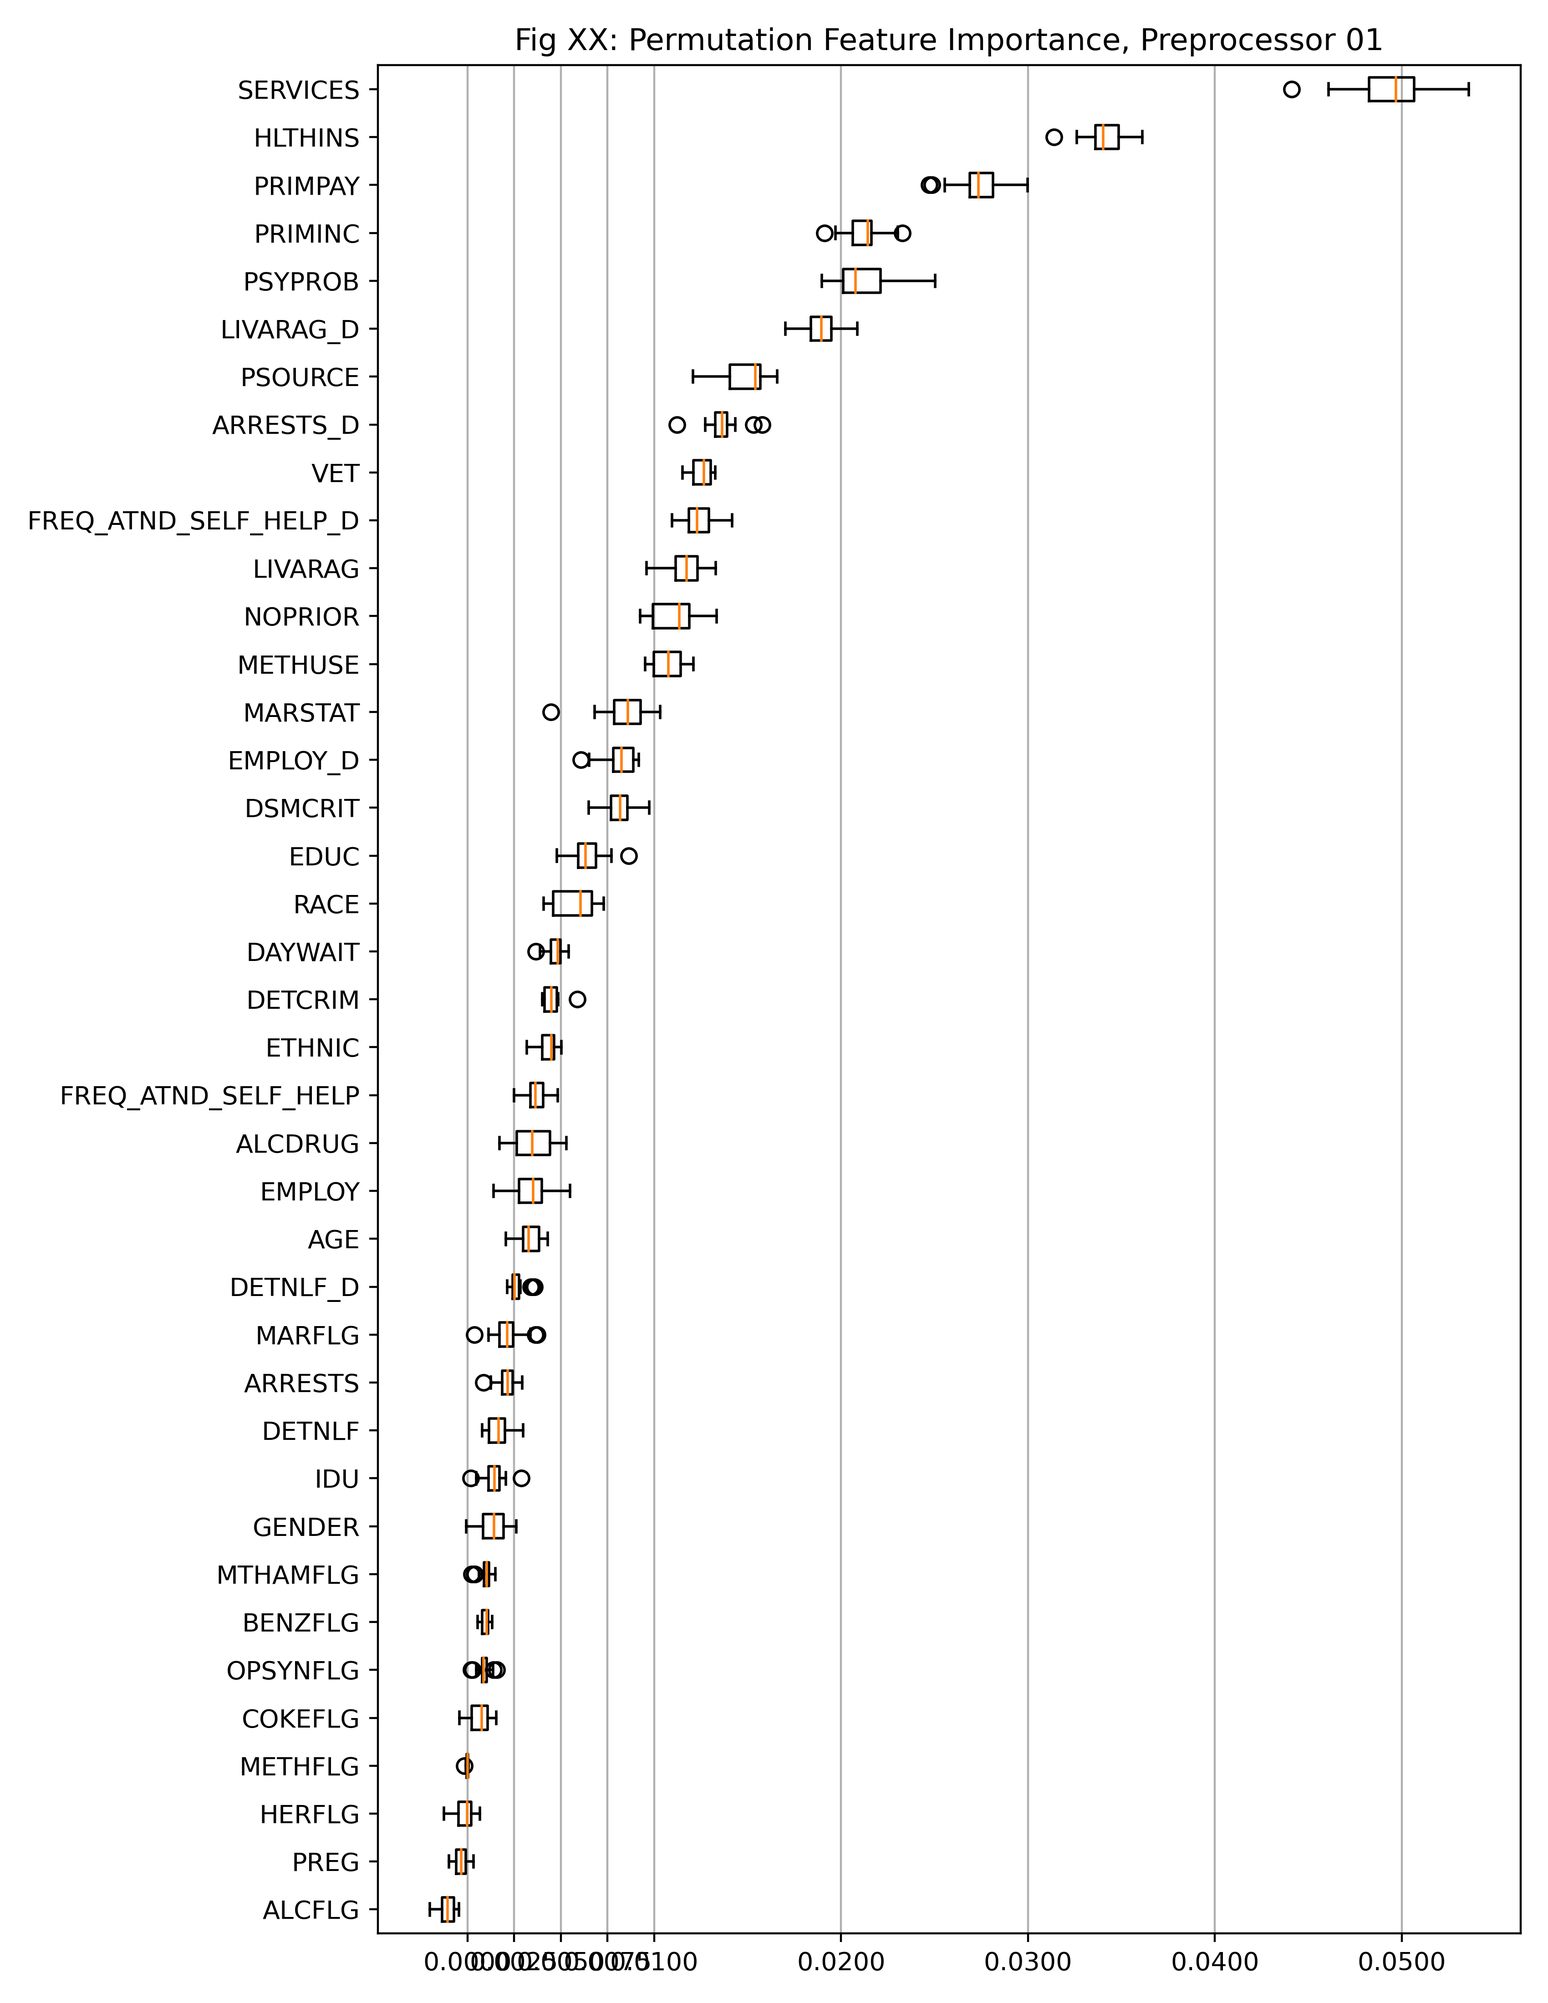
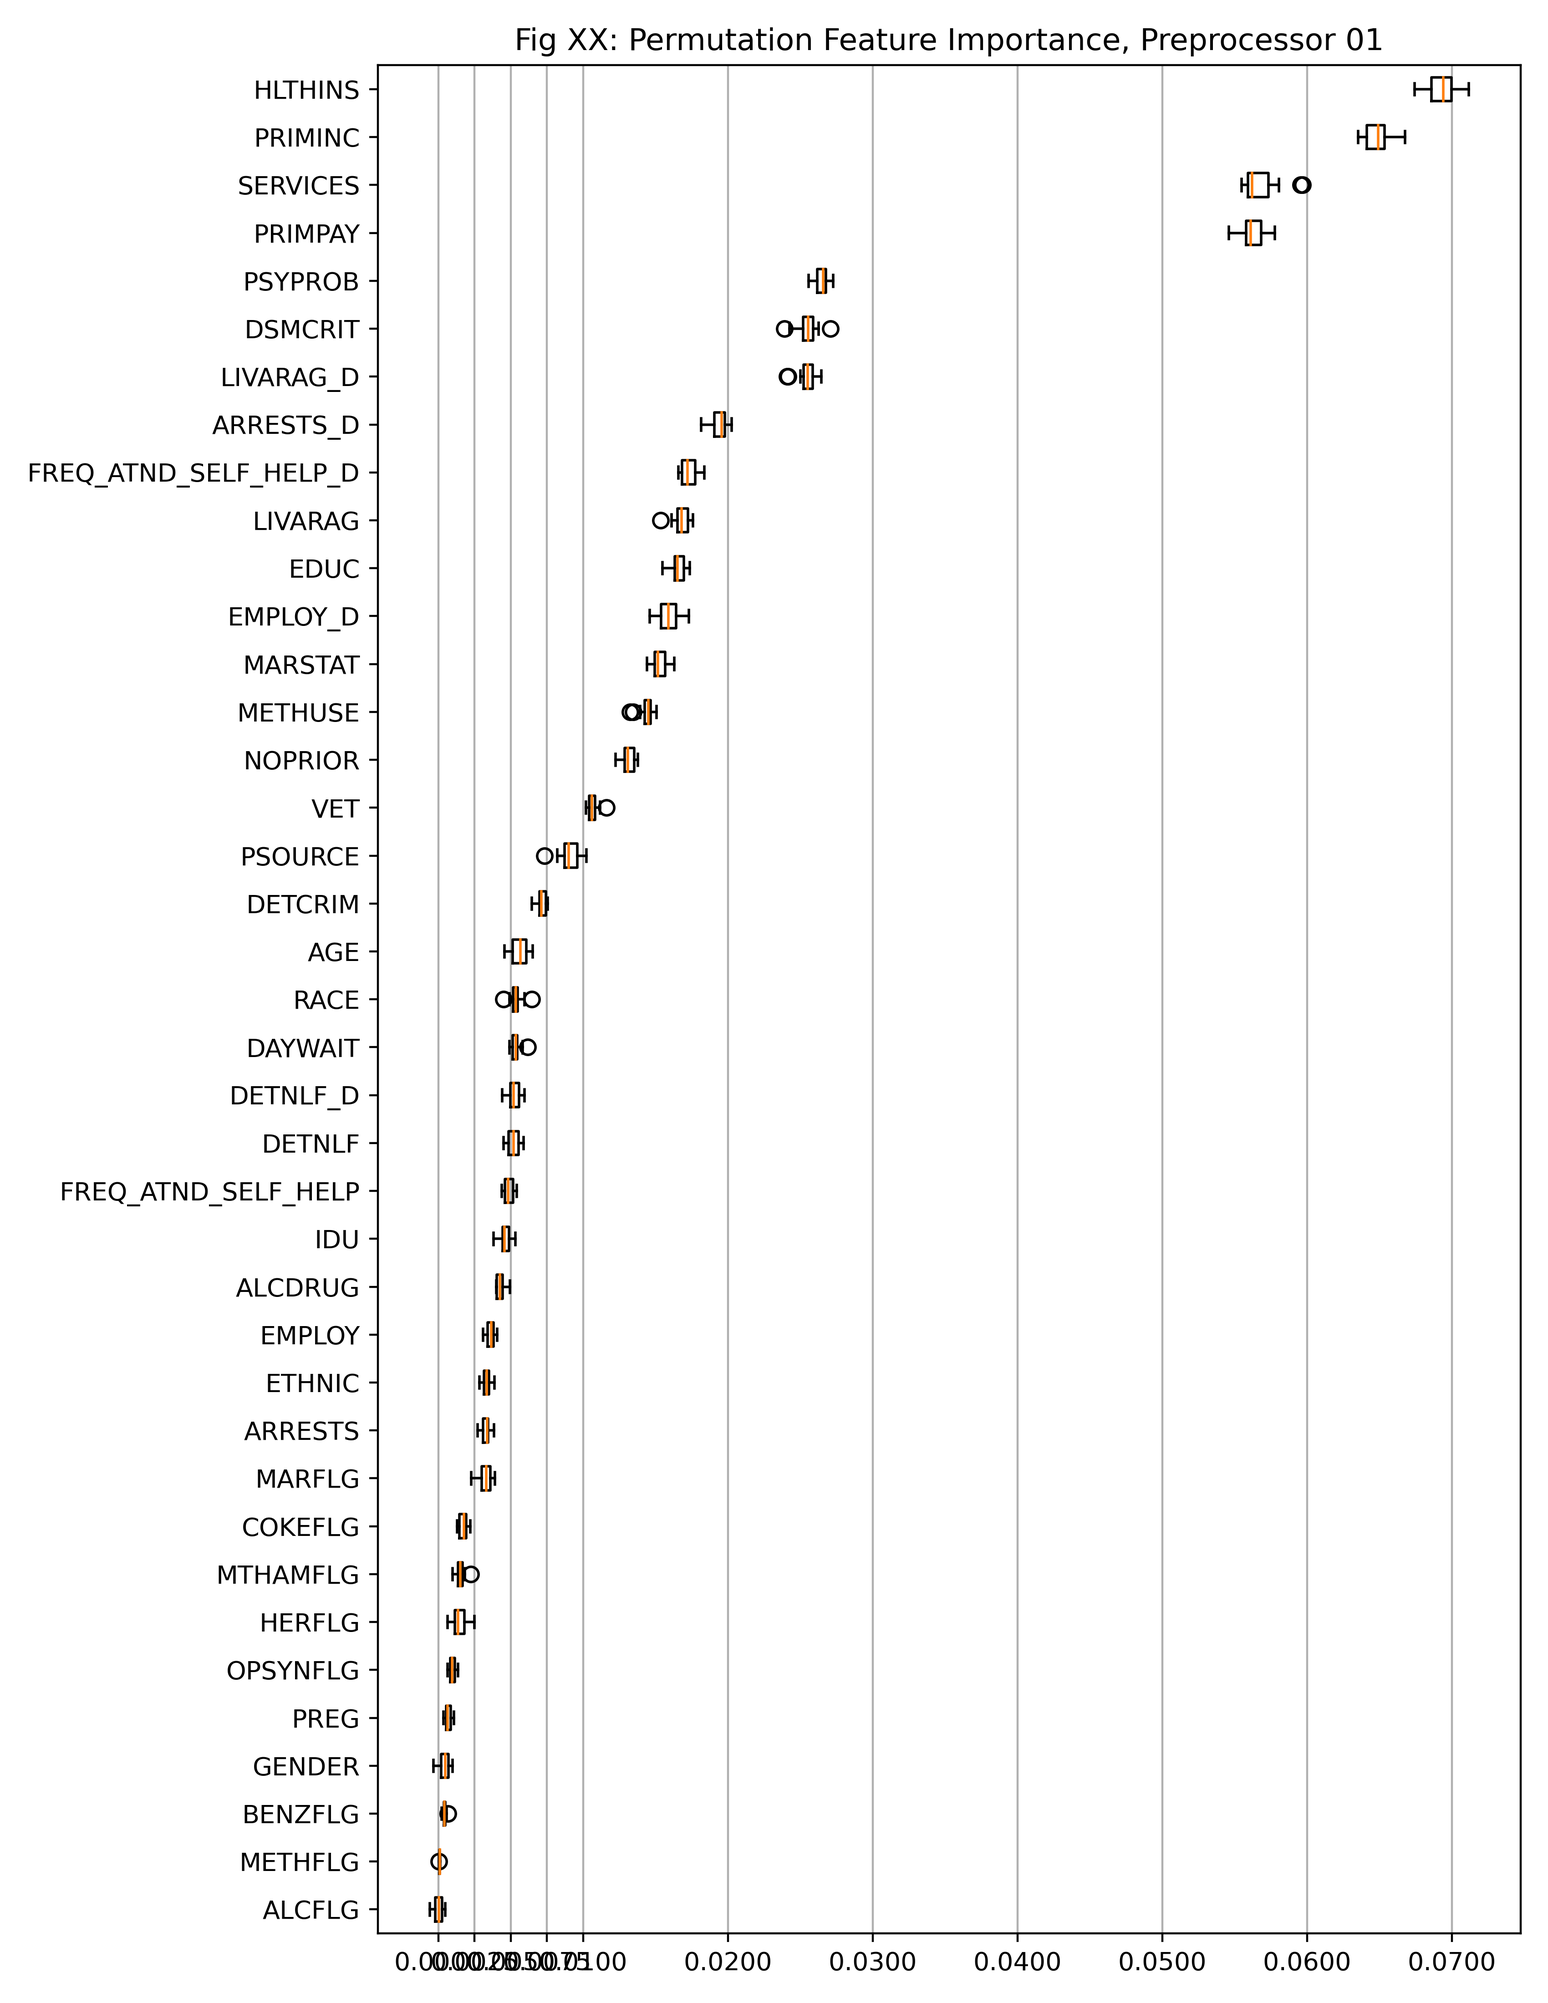
Starting final classifier training.

diff --git a/_final_code/permutation_feature_importance.py b/_final_code/permutation_feature_importance.py
@@ -34,8 +34,35 @@ def main():
 
     ############################################################################
 
+    # destination = os.path.join(
+    #     classifier_directory, "rf_prep_01"
+    # )
+    # with open(destination, 'rb') as file:
+    #     preprocessing, rf_clf, feature_labels, X_train, X_test, y_train, y_test \
+    #         = pickle.load(file)
+    #
+    # results = permutation_feature_importance(
+    #     preprocessing, rf_clf, roc_auc_score, feature_labels,
+    #     X_test, y_test, 20,
+    #     file_name='Permutation Feature Importance, Preprocessor 01.pickle'
+    # )
+
+    # destination = os.path.join(
+    #     performance_data_directory, "Permutation Feature Importance, "
+    #                                 "Preprocessor 01.pickle"
+    # )
+    # with open(destination, 'rb') as file:
+    #     results = pickle.load(file)
+    #
+    # fig_pf_importance(results,
+    #                   'Fig XX: Permutation Feature Importance, Preprocessor '
+    #                   '01',
+    #                   'Permutation Feature Importance, Preprocessor 01')
+
+    ############################################################################
+
     destination = os.path.join(
-        classifier_directory, "rf_prep_01"
+        classifier_directory, "rf_prep_01_opt"
     )
     with open(destination, 'rb') as file:
         preprocessing, rf_clf, feature_labels, X_train, X_test, y_train, y_test \
@@ -44,103 +71,76 @@ def main():
     results = permutation_feature_importance(
         preprocessing, rf_clf, roc_auc_score, feature_labels,
         X_test, y_test, 20,
-        file_name='Permutation Feature Importance, Preprocessor 01.pickle'
+        file_name='Permutation Feature Importance, Preprocessor 01 '
+                  'Optimized.pickle'
     )
 
     destination = os.path.join(
         performance_data_directory, "Permutation Feature Importance, "
-                                    "Preprocessor 01.pickle"
+                                    "Preprocessor 01 Optimized.pickle"
     )
     with open(destination, 'rb') as file:
         results = pickle.load(file)
 
     fig_pf_importance(results,
                       'Fig XX: Permutation Feature Importance, Preprocessor '
-                      '01',
-                      'Permutation Feature Importance, Preprocessor 01')
+                      '01 Optimized',
+                      'Permutation Feature Importance, Preprocessor 01 '
+                      'Optimized')
 
     ############################################################################
 
-    # destination = os.path.join(
-    #     classifier_directory, "rf_prep_01_opt"
-    # )
-    # with open(destination, 'rb') as file:
-    #     preprocessing, rf_clf, feature_labels, X_train, X_test, y_train, y_test \
-    #         = pickle.load(file)
-    #
-    # results = permutation_feature_importance(
-    #     preprocessing, rf_clf, roc_auc_score, feature_labels,
-    #     X_test, y_test, 20,
-    #     file_name='Permutation Feature Importance, Preprocessor 01 '
-    #               'Optimized.pickle'
-    # )
-    #
-    # destination = os.path.join(
-    #     performance_data_directory, "Permutation Feature Importance, "
-    #                                 "Preprocessor 01 Optimized.pickle"
-    # )
-    # with open(destination, 'rb') as file:
-    #     results = pickle.load(file)
-    #
-    # fig_pf_importance(results,
-    #                   'Fig XX: Permutation Feature Importance, Preprocessor '
-    #                   '01 Optimized',
-    #                   'Permutation Feature Importance, Preprocessor 01 '
-    #                   'Optimized')
+    destination = os.path.join(
+        classifier_directory, "rf_prep_02a"
+    )
+    with open(destination, 'rb') as file:
+        preprocessing, rf_clf, feature_labels, X_train, X_test, y_train, y_test \
+            = pickle.load(file)
+
+    results = permutation_feature_importance(
+        preprocessing, rf_clf, roc_auc_score, feature_labels,
+        X_test, y_test, 20,
+        file_name='Permutation Feature Importance, Preprocessor 02a.pickle'
+    )
+
+    destination = os.path.join(
+        performance_data_directory, "Permutation Feature Importance, "
+                                    "Preprocessor 02a.pickle"
+    )
+    with open(destination, 'rb') as file:
+        results = pickle.load(file)
+
+    fig_pf_importance(results,
+                      'Fig XX: Permutation Feature Importance, Preprocessor '
+                      '02a',
+                      'Permutation Feature Importance, Preprocessor 02a')
 
     ############################################################################
 
-    # destination = os.path.join(
-    #     classifier_directory, "rf_prep_02a"
-    # )
-    # with open(destination, 'rb') as file:
-    #     preprocessing, rf_clf, feature_labels, X_train, X_test, y_train, y_test \
-    #         = pickle.load(file)
-    #
-    # results = permutation_feature_importance(
-    #     preprocessing, rf_clf, roc_auc_score, feature_labels,
-    #     X_test, y_test, 20,
-    #     file_name='Permutation Feature Importance, Preprocessor 02a.pickle'
-    # )
-    #
-    # destination = os.path.join(
-    #     performance_data_directory, "Permutation Feature Importance, "
-    #                                 "Preprocessor 02a.pickle"
-    # )
-    # with open(destination, 'rb') as file:
-    #     results = pickle.load(file)
-    #
-    # fig_pf_importance(results,
-    #                   'Fig XX: Permutation Feature Importance, Preprocessor '
-    #                   '02a',
-    #                   'Permutation Feature Importance, Preprocessor 02a')
+    destination = os.path.join(
+        classifier_directory, "rf_prep_02b"
+    )
+    with open(destination, 'rb') as file:
+        preprocessing, rf_clf, feature_labels, X_train, X_test, y_train, y_test \
+            = pickle.load(file)
 
-    ############################################################################
+    results = permutation_feature_importance(
+        preprocessing, rf_clf, roc_auc_score, feature_labels,
+        X_test, y_test, 20,
+        file_name='Permutation Feature Importance, Preprocessor 02b.pickle'
+    )
 
-    # destination = os.path.join(
-    #     classifier_directory, "rf_prep_02b"
-    # )
-    # with open(destination, 'rb') as file:
-    #     preprocessing, rf_clf, feature_labels, X_train, X_test, y_train, y_test \
-    #         = pickle.load(file)
-    #
-    # results = permutation_feature_importance(
-    #     preprocessing, rf_clf, roc_auc_score, feature_labels,
-    #     X_test, y_test, 20,
-    #     file_name='Permutation Feature Importance, Preprocessor 02b.pickle'
-    # )
-    #
-    # destination = os.path.join(
-    #     performance_data_directory, "Permutation Feature Importance, "
-    #                                 "Preprocessor 02b.pickle"
-    # )
-    # with open(destination, 'rb') as file:
-    #     results = pickle.load(file)
-    #
-    # fig_pf_importance(results,
-    #                   'Fig XX: Permutation Feature Importance, Preprocessor '
-    #                   '02b',
-    #                   'Permutation Feature Importance, Preprocessor 02b')
+    destination = os.path.join(
+        performance_data_directory, "Permutation Feature Importance, "
+                                    "Preprocessor 02b.pickle"
+    )
+    with open(destination, 'rb') as file:
+        results = pickle.load(file)
+
+    fig_pf_importance(results,
+                      'Fig XX: Permutation Feature Importance, Preprocessor '
+                      '02b',
+                      'Permutation Feature Importance, Preprocessor 02b')
 
     ############################################################################
 
@@ -167,7 +167,7 @@ def fig_pf_importance(results: dict[str, list[float]],
     ax.grid(axis='x')
     ax.set_xticks(
         [0.000, 0.0025, 0.005, 0.0075, 0.010, 0.020, 0.030,
-         0.040, 0.050]
+         0.040, 0.050, 0.060, 0.070]
     )
     fig.tight_layout()
     plt.show()

diff --git a/_final_code/random_forest.py b/_final_code/random_forest.py
@@ -26,29 +26,63 @@ def main():
     start_time = pd.Timestamp.now()
     print(f"Started at {start_time}")
 
-    preprocessor, feature_labels = preprocessors.create_preprocessor_01()
+    ############################################################################
+
+    # target_file = os.path.join(data_directory, 'tedsd_puf_2019.csv')
+    # raw_data = pd.read_csv(target_file)
+    #
+    # targets = raw_data.pop('REASON')
+    # targets = np.array((targets == 3).astype(int))
+    # features = raw_data
+    #
+    # X_train, X_test, y_train, y_test = \
+    #     train_test_split(features, targets,
+    #                      test_size=0.1, stratify=targets)
+    #
+    # save_data = (X_train, X_test, y_train, y_test)
+    # destination = os.path.join(
+    #     classifier_directory, 'Split Data, Round 1.pickle'
+    # )
+    # with open(destination, 'wb') as file:
+    #     pickle.dump(save_data, file)
+
+    ############################################################################
+
+    destination = os.path.join(
+        classifier_directory, "Split Data, Round 1.pickle"
+    )
+    with open(destination, 'rb') as file:
+        X_train, X_test, y_train, y_test = pickle.load(file)
+
+    ############################################################################
+
+    # preprocessor, feature_labels = preprocessors.create_preprocessor_01()
+    # downsampled_random_forest(preprocessor,
+    #                           feature_labels,
+    #                           'rf_prep_01',
+    #                           'Random Forest, Preprocessor 01',
+    #                           X_train, X_test, y_train, y_test)
+
+    preprocessor, feature_labels = preprocessors.create_preprocessor_01_opt()
     downsampled_random_forest(preprocessor,
                               feature_labels,
-                              'rf_prep_01',
-                              'Random Forest, Preprocessor 01')
+                              'rf_prep_01_opt',
+                              'Random Forest, Preprocessor 01 Optimized',
+                              X_train, X_test, y_train, y_test)
 
-    # preprocessor, feature_labels = preprocessors.create_preprocessor_01_opt()
-    # downsampled_random_forest(preprocessor,
-    #                           feature_labels,
-    #                           'rf_prep_01_opt',
-    #                           'Random Forest, Preprocessor 01 Optimized')
-    #
-    # preprocessor, feature_labels = preprocessors.create_preprocessor_02a()
-    # downsampled_random_forest(preprocessor,
-    #                           feature_labels,
-    #                           'rf_prep_02a',
-    #                           'Random Forest, Preprocessor 02a')
-    #
-    # preprocessor, feature_labels = preprocessors.create_preprocessor_02b()
-    # downsampled_random_forest(preprocessor,
-    #                           feature_labels,
-    #                           'rf_prep_02b',
-    #                           'Random Forest, Preprocessor 02b')
+    preprocessor, feature_labels = preprocessors.create_preprocessor_02a()
+    downsampled_random_forest(preprocessor,
+                              feature_labels,
+                              'rf_prep_02a',
+                              'Random Forest, Preprocessor 02a',
+                              X_train, X_test, y_train, y_test)
+
+    preprocessor, feature_labels = preprocessors.create_preprocessor_02b()
+    downsampled_random_forest(preprocessor,
+                              feature_labels,
+                              'rf_prep_02b',
+                              'Random Forest, Preprocessor 02b',
+                              X_train, X_test, y_train, y_test)
 
     end_time = pd.Timestamp.now()
     print(f"Finished at {end_time}")
@@ -59,29 +93,26 @@ def main():
 def downsampled_random_forest(preprocessor: ColumnTransformer,
                               feature_labels: list[str],
                               filename: str,
-                              filename_pretty: str):
+                              filename_pretty: str,
+                              X_train: pd.DataFrame,
+                              X_test: pd.DataFrame,
+                              y_train: pd.DataFrame,
+                              y_test: pd.DataFrame):
     """
     Compensates for dramatic under-representation of desired target in data
     by breaking training data into two groups, based on target, then batch
     training on batches with equal representation of targets.
+    :param y_test:
+    :param y_train:
+    :param X_test:
+    :param X_train:
     :param preprocessor:
     :param features:
     :param filename:
     :param filename_pretty:
     :return:
     """
-    print("Setting up data...")
 
-    target_file = os.path.join(data_directory, 'tedsd_puf_2019.csv')
-    raw_data = pd.read_csv(target_file)
-
-    targets = raw_data.pop('REASON')
-    targets = np.array((targets == 3).astype(int))
-    features = raw_data
-
-    X_train, X_test, y_train, y_test = \
-        train_test_split(features, targets,
-                         test_size=50_000, stratify=targets)
     t_X_train = preprocessor.fit_transform(X_train)
     t_X_test = preprocessor.transform(X_test)
 

diff --git a/_final_code/preprocessors.py b/_final_code/preprocessors.py
@@ -86,7 +86,7 @@ def create_preprocessor_01_opt():
 
     # Get categorical data that is binary
     binary_category_cols = [
-        'COKEFLG', 'MARFLG',
+        'COKEFLG', 'MARFLG', 'HERFLG',
         'OPSYNFLG', 'MTHAMFLG', 'BENZFLG'
     ]
 
@@ -98,7 +98,7 @@ def create_preprocessor_01_opt():
     # Get categorical data with missing datapoints
     incomplete_category_cols = [
         'GENDER', 'RACE', 'ETHNIC', 'MARSTAT', 'EDUC', 'EMPLOY', 'EMPLOY_D',
-        'DETNLF', 'DETNLF_D', 'VET', 'LIVARAG', 'LIVARAG_D', 'PRIMINC',
+        'DETNLF', 'DETNLF_D', 'PREG', 'VET', 'LIVARAG', 'LIVARAG_D', 'PRIMINC',
         'ARRESTS', 'ARRESTS_D', 'PSOURCE', 'DETCRIM', 'NOPRIOR', 'DSMCRIT',
         'PSYPROB', 'HLTHINS', 'PRIMPAY', 'METHUSE', 'IDU'
     ]
@@ -152,7 +152,7 @@ def create_preprocessor_02a():
 
     # Get categorical data that is binary
     binary_category_cols = [
-
+        'MARFLG'
     ]
 
     # Get categorical data with no missing datapoints:
@@ -163,9 +163,9 @@ def create_preprocessor_02a():
     # Get categorical data with missing datapoints
     incomplete_category_cols = [
         'RACE', 'ETHNIC', 'MARSTAT', 'EDUC', 'EMPLOY', 'EMPLOY_D',
-        'VET', 'LIVARAG', 'LIVARAG_D', 'PRIMINC',
-        'ARRESTS_D', 'PSOURCE', 'DETCRIM', 'NOPRIOR', 'DSMCRIT',
-        'PSYPROB', 'HLTHINS', 'PRIMPAY', 'METHUSE'
+        'DETNLF', 'DETNLF_D', 'VET', 'LIVARAG', 'LIVARAG_D', 'PRIMINC',
+        'ARRESTS', 'ARRESTS_D', 'PSOURCE', 'DETCRIM', 'NOPRIOR', 'DSMCRIT',
+        'PSYPROB', 'HLTHINS', 'PRIMPAY', 'METHUSE', 'IDU'
     ]
 
     incomplete_ordinal_cols = [
@@ -228,17 +228,17 @@ def create_preprocessor_02b():
     # Get categorical data with missing datapoints
     incomplete_category_cols = [
         'RACE', 'MARSTAT', 'EDUC', 'EMPLOY_D',
-        'VET', 'LIVARAG', 'LIVARAG_D', 'PRIMINC',
-        'ARRESTS_D', 'PSOURCE', 'NOPRIOR', 'DSMCRIT',
+        'DETNLF', 'DETNLF_D', 'VET', 'LIVARAG', 'LIVARAG_D', 'PRIMINC',
+        'ARRESTS_D', 'PSOURCE', 'DETCRIM', 'NOPRIOR', 'DSMCRIT',
         'PSYPROB', 'HLTHINS', 'PRIMPAY', 'METHUSE'
     ]
 
     incomplete_ordinal_cols = [
-        'FREQ_ATND_SELF_HELP_D'
+        'DAYWAIT', 'FREQ_ATND_SELF_HELP_D'
     ]
 
     ratio_columns = [
-
+        'AGE'
     ]
 
     inc_ordinal_pipe = Pipeline([
